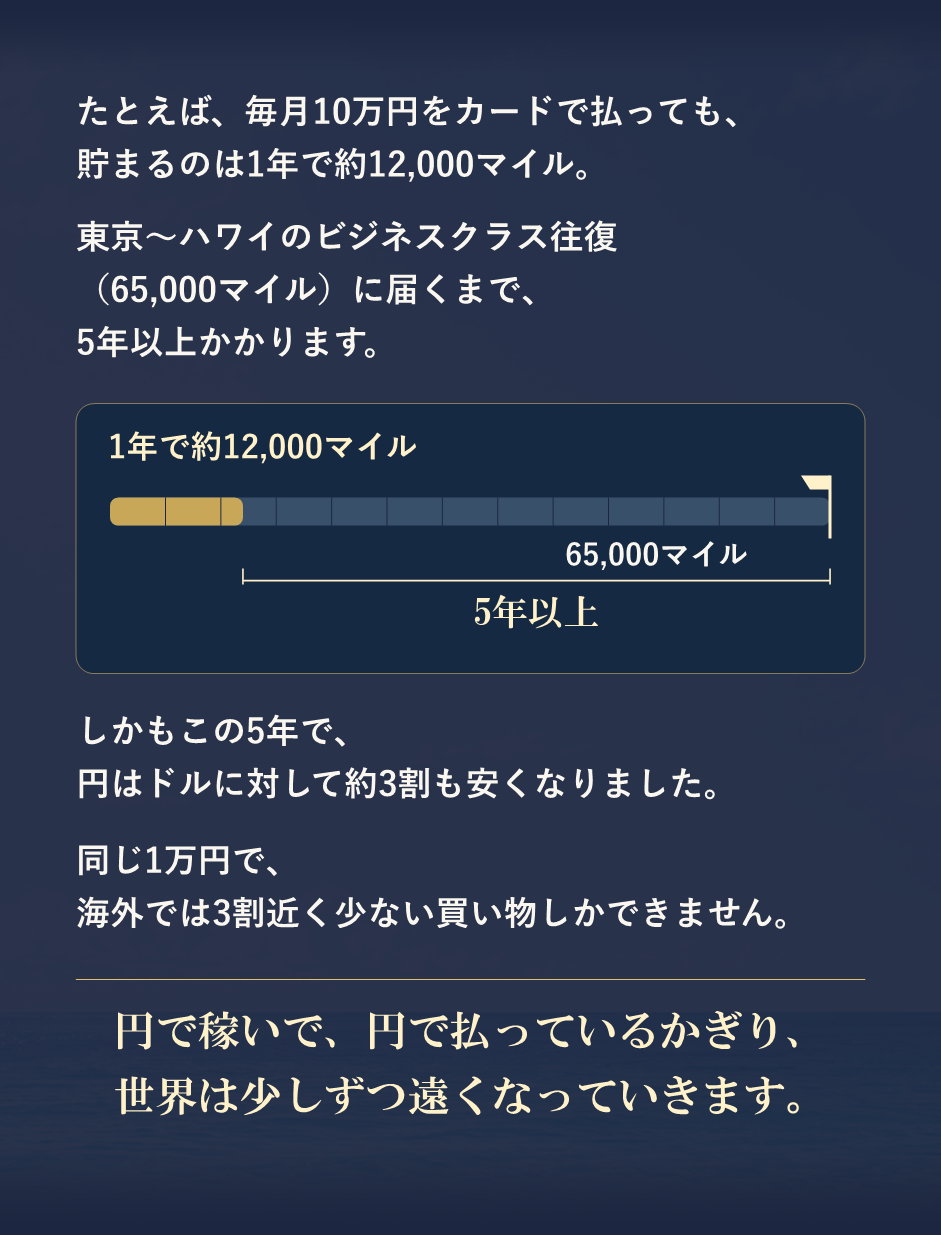
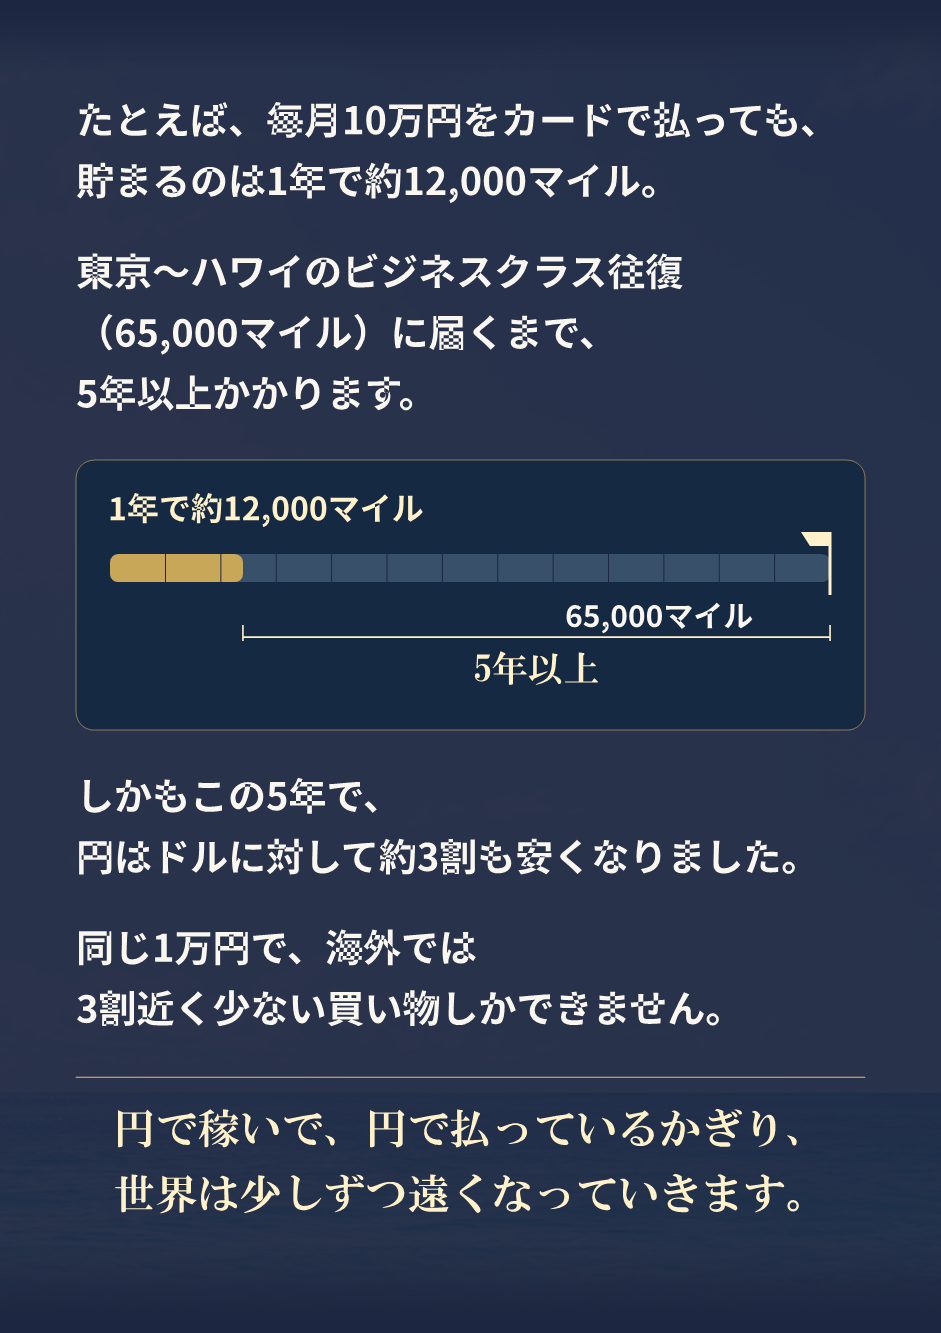
ebay-seminar-lp-2: 本文の書体・文字サイズ・行間・余白・チェックの円を参考ページ（UTAGE）に合わせる
- 本文・項目の書体を Noto Sans JP に（地の文は太字700、箇条書き・答え・項目の中身は中太500、小見出しは極太900）
- 本文 16px相当（画像上38px）・行間1.6、小見出し 17〜18px相当、注記 12.5px相当
- チェックの円を文字の約1.2倍に、改行位置を新しい文字サイズで組み直し
- 金色の見出し・帯の強調文（明朝）と色・画像・配置はそのまま

diff --git a/ebay-seminar-lp-2/index.html b/ebay-seminar-lp-2/index.html
@@ -6,7 +6,7 @@
 .v3 .cta-card{background:radial-gradient(ellipse at 4% 0%,#dceff8b0,transparent 45%),radial-gradient(ellipse at 95% 100%,#b8deec70,transparent 45%),#fbf6ee;border:1px solid #169aa66b;border-radius:18px 24px 20px 28px;box-shadow:0 0 16px 5px #169aa610}.v3 .cta h2{font-family:"Klee One","UD デジタル 教科書体 NK","Yu Mincho",serif;font-weight:600;color:#1b2f5b}.legal-note{padding:10px 24px 6px}.footer{padding:12px 22px 28px;text-align:center;font-size:12px;line-height:2.2;overflow-wrap:break-word}.footer a{color:inherit;text-underline-offset:4px}
 .floating-cta{position:fixed;left:50%;bottom:max(14px,env(safe-area-inset-bottom));transform:translateX(-50%);z-index:20;width:min(calc(100vw - 64px),680px);display:block}.floating-cta[hidden]{display:none}
 @media(prefers-reduced-motion:reduce){html{scroll-behavior:auto}}
-</style></head><body class="v2"><main class="lp"><div class="hero"><img src="images/01-first-view-C5-03.png" alt="稼ぎながら、無料で世界を飛び回る！" width="941" height="1769" fetchpriority="high"></div><section class="cta" id="form1" aria-labelledby="heading1"><div class="cta-card"><h2 id="heading1" data-copy="CTA1-01">メールアドレスとLINE登録だけでOK！</h2><p class="note intro" data-copy="CTA1-02">※参加URLは、公式LINEでお届けします。</p><form action="#cta-link" method="get"><input data-copy="CTA1-03" type="email" name="email" required autocomplete="email" placeholder="メールアドレスを入力" aria-label="メールアドレスを入力"><button type="submit"><img src="images/cta-button_案2.png" alt="無料でセミナーに参加する" width="800" height="142" data-copy="CTA1-04"></button></form><p class="note" data-copy="CTA1-05">※ボタンを押すと、公式LINEの友だち追加の画面が開きます（パソコンの方はQRコードが表示されます）</p><p class="note free" data-copy="CTA1-06">※参加は無料です</p></div></section><img src="images/02-problem.png" alt="こんなこと、感じていませんか？" width="941" height="1417" class="section-image" decoding="async"><img src="images/03-numbers.png" alt="たとえば、毎月10万円をカードで払っても、貯まるのは1年で約12,000マイル。" width="941" height="1235" class="section-image" decoding="async"><img src="images/04-bridge.png" alt="円で買う側から、ドルで稼ぐ側へ。" width="941" height="1353" class="section-image" decoding="async"><img src="images/05-five-values.png" alt="たった1回の取引で生まれる、3つの価値" width="941" height="1107" class="section-image" decoding="async"><img src="images/06-walls-1.png" alt="物販は大変そう？そう思う方へ" width="941" height="1316" class="section-image" decoding="async"><img src="images/07-walls-2.png" alt="④ 出品が面倒" width="941" height="1009" class="section-image" decoding="async"><section class="cta" id="form2" aria-labelledby="heading2"><div class="cta-card"><h2 id="heading2" data-copy="CTA2-01">メールアドレスとLINE登録だけでOK！</h2><p class="note intro" data-copy="CTA2-02">※参加URLは、公式LINEでお届けします。</p><form action="#cta-link" method="get"><input data-copy="CTA2-03" type="email" name="email" required autocomplete="email" placeholder="メールアドレスを入力" aria-label="メールアドレスを入力"><button type="submit"><img src="images/cta-button_案2.png" alt="無料でセミナーに参加する" width="800" height="142" data-copy="CTA2-04"></button></form><p class="note" data-copy="CTA2-05">※ボタンを押すと、公式LINEの友だち追加の画面が開きます（パソコンの方はQRコードが表示されます）</p><p class="note free" data-copy="CTA2-06">※参加は無料です</p></div></section><img src="images/08-learn.png" alt="このセミナーで分かること" width="941" height="1614" class="section-image" decoding="async"><img src="images/09-for-whom.png" alt="こんな方のためのセミナーです" width="941" height="1377" class="section-image" decoding="async"><img src="images/10-instructor-1.png" alt="講師紹介" width="941" height="1527" class="section-image" decoding="async"><img src="images/11-instructor-2.png" alt="独自のAIシステムと実践型のサポート体制をつくり、未経験者でも段階的に成果を目指せる仕組みづくりに力を注いでいる。MBA（経営学修士）の知識を活かし、感覚だけに頼らず、データ分析・戦略・仕組み化の観点から指導している。" width="941" height="1199" class="section-image" decoding="async"><img src="images/12-instructor-masuda.png" alt="増田 和彦" width="941" height="1394" class="section-image" decoding="async"><img src="images/13-overview.png" alt="開催概要" width="941" height="1534" class="section-image" decoding="async"><img src="images/14-bonus.png" alt="参加特典" width="941" height="1458" class="section-image" decoding="async"><img src="images/15-steps.png" alt="参加までの流れ" width="941" height="1097" class="section-image" decoding="async"><section class="cta" id="form3" aria-labelledby="heading3"><div class="cta-card"><h2 id="heading3" data-copy="CTA3-01">メールアドレスとLINE登録だけでOK！</h2><p class="note intro" data-copy="CTA3-02">※参加URLは、公式LINEでお届けします。</p><form action="#cta-link" method="get"><input data-copy="CTA3-03" type="email" name="email" required autocomplete="email" placeholder="メールアドレスを入力" aria-label="メールアドレスを入力"><button type="submit"><img src="images/cta-button_案2.png" alt="無料でセミナーに参加する" width="800" height="142" data-copy="CTA3-04"></button></form><p class="note" data-copy="CTA3-05">※ボタンを押すと、公式LINEの友だち追加の画面が開きます（パソコンの方はQRコードが表示されます）</p><p class="note free" data-copy="CTA3-06">※参加は無料です</p></div></section><img src="images/16-faq-1.png" alt="よくある質問" width="941" height="1546" class="section-image" decoding="async"><img src="images/17-faq-2.png" alt="Q. セミナーで何かを買わされませんか？" width="941" height="1303" class="section-image" decoding="async"><img src="images/18-final-1.png" alt="最後に" width="941" height="1653" class="section-image" decoding="async"><img src="images/19-final-2.png" alt="まずは10月27日、話を聞くところから始めてみてください。" width="941" height="979" class="section-image" decoding="async"><section class="cta" id="form4" aria-labelledby="heading4"><div class="cta-card"><h2 id="heading4" data-copy="CTA4-01">メールアドレスとLINE登録だけでOK！</h2><p class="note intro" data-copy="CTA4-02">※参加URLは、公式LINEでお届けします。</p><form action="#cta-link" method="get"><input data-copy="CTA4-03" type="email" name="email" required autocomplete="email" placeholder="メールアドレスを入力" aria-label="メールアドレスを入力"><button type="submit"><img src="images/cta-button_案2.png" alt="無料でセミナーに参加する" width="800" height="142" data-copy="CTA4-04"></button></form><p class="note" data-copy="CTA4-05">※ボタンを押すと、公式LINEの友だち追加の画面が開きます（パソコンの方はQRコードが表示されます）</p><p class="note free" data-copy="CTA4-06">※参加は無料です</p></div></section><p class="note legal-note" data-copy="NOTE-01">※ご紹介している実績は講師・受講生個人のものであり、成果を保証するものではありません。</p><footer class="footer" data-copy="FOOTER-01"><a href="#">特定商取引法に基づく表記</a>　｜　<a href="#">プライバシーポリシー</a></footer></main><a class="floating-cta" href="#form1" aria-label="無料でセミナーに参加する" hidden><img src="images/cta-button_案2.png" alt="" width="800" height="142" ></a><script>
+</style></head><body class="v2"><main class="lp"><div class="hero"><img src="images/01-first-view-C5-03.png" alt="稼ぎながら、無料で世界を飛び回る！" width="941" height="1769" fetchpriority="high"></div><section class="cta" id="form1" aria-labelledby="heading1"><div class="cta-card"><h2 id="heading1" data-copy="CTA1-01">メールアドレスとLINE登録だけでOK！</h2><p class="note intro" data-copy="CTA1-02">※参加URLは、公式LINEでお届けします。</p><form action="#cta-link" method="get"><input data-copy="CTA1-03" type="email" name="email" required autocomplete="email" placeholder="メールアドレスを入力" aria-label="メールアドレスを入力"><button type="submit"><img src="images/cta-button_案2.png" alt="無料でセミナーに参加する" width="800" height="142" data-copy="CTA1-04"></button></form><p class="note" data-copy="CTA1-05">※ボタンを押すと、公式LINEの友だち追加の画面が開きます（パソコンの方はQRコードが表示されます）</p><p class="note free" data-copy="CTA1-06">※参加は無料です</p></div></section><img src="images/02-problem.png" alt="こんなこと、感じていませんか？" width="941" height="1601" class="section-image" decoding="async"><img src="images/03-numbers.png" alt="たとえば、毎月10万円をカードで払っても、貯まるのは1年で約12,000マイル。" width="941" height="1333" class="section-image" decoding="async"><img src="images/04-bridge.png" alt="円で買う側から、ドルで稼ぐ側へ。" width="941" height="1649" class="section-image" decoding="async"><img src="images/05-five-values.png" alt="たった1回の取引で生まれる、3つの価値" width="941" height="1237" class="section-image" decoding="async"><img src="images/06-walls-1.png" alt="物販は大変そう？そう思う方へ" width="941" height="1582" class="section-image" decoding="async"><img src="images/07-walls-2.png" alt="④ 出品が面倒" width="941" height="1098" class="section-image" decoding="async"><section class="cta" id="form2" aria-labelledby="heading2"><div class="cta-card"><h2 id="heading2" data-copy="CTA2-01">メールアドレスとLINE登録だけでOK！</h2><p class="note intro" data-copy="CTA2-02">※参加URLは、公式LINEでお届けします。</p><form action="#cta-link" method="get"><input data-copy="CTA2-03" type="email" name="email" required autocomplete="email" placeholder="メールアドレスを入力" aria-label="メールアドレスを入力"><button type="submit"><img src="images/cta-button_案2.png" alt="無料でセミナーに参加する" width="800" height="142" data-copy="CTA2-04"></button></form><p class="note" data-copy="CTA2-05">※ボタンを押すと、公式LINEの友だち追加の画面が開きます（パソコンの方はQRコードが表示されます）</p><p class="note free" data-copy="CTA2-06">※参加は無料です</p></div></section><img src="images/08-learn.png" alt="このセミナーで分かること" width="941" height="1913" class="section-image" decoding="async"><img src="images/09-for-whom.png" alt="こんな方のためのセミナーです" width="941" height="1573" class="section-image" decoding="async"><img src="images/10-instructor-1.png" alt="講師紹介" width="941" height="1892" class="section-image" decoding="async"><img src="images/11-instructor-2.png" alt="独自のAIシステムと実践型のサポート体制をつくり、未経験者でも段階的に成果を目指せる仕組みづくりに力を注いでいる。MBA（経営学修士）の知識を活かし、感覚だけに頼らず、データ分析・戦略・仕組み化の観点から指導している。" width="941" height="1485" class="section-image" decoding="async"><img src="images/12-instructor-masuda.png" alt="増田 和彦" width="941" height="1617" class="section-image" decoding="async"><img src="images/13-overview.png" alt="開催概要" width="941" height="1800" class="section-image" decoding="async"><img src="images/14-bonus.png" alt="参加特典" width="941" height="1458" class="section-image" decoding="async"><img src="images/15-steps.png" alt="参加までの流れ" width="941" height="1148" class="section-image" decoding="async"><section class="cta" id="form3" aria-labelledby="heading3"><div class="cta-card"><h2 id="heading3" data-copy="CTA3-01">メールアドレスとLINE登録だけでOK！</h2><p class="note intro" data-copy="CTA3-02">※参加URLは、公式LINEでお届けします。</p><form action="#cta-link" method="get"><input data-copy="CTA3-03" type="email" name="email" required autocomplete="email" placeholder="メールアドレスを入力" aria-label="メールアドレスを入力"><button type="submit"><img src="images/cta-button_案2.png" alt="無料でセミナーに参加する" width="800" height="142" data-copy="CTA3-04"></button></form><p class="note" data-copy="CTA3-05">※ボタンを押すと、公式LINEの友だち追加の画面が開きます（パソコンの方はQRコードが表示されます）</p><p class="note free" data-copy="CTA3-06">※参加は無料です</p></div></section><img src="images/16-faq-1.png" alt="よくある質問" width="941" height="1900" class="section-image" decoding="async"><img src="images/17-faq-2.png" alt="Q. セミナーで何かを買わされませんか？" width="941" height="1490" class="section-image" decoding="async"><img src="images/18-final-1.png" alt="最後に" width="941" height="1768" class="section-image" decoding="async"><img src="images/19-final-2.png" alt="まずは10月27日、話を聞くところから始めてみてください。" width="941" height="1252" class="section-image" decoding="async"><section class="cta" id="form4" aria-labelledby="heading4"><div class="cta-card"><h2 id="heading4" data-copy="CTA4-01">メールアドレスとLINE登録だけでOK！</h2><p class="note intro" data-copy="CTA4-02">※参加URLは、公式LINEでお届けします。</p><form action="#cta-link" method="get"><input data-copy="CTA4-03" type="email" name="email" required autocomplete="email" placeholder="メールアドレスを入力" aria-label="メールアドレスを入力"><button type="submit"><img src="images/cta-button_案2.png" alt="無料でセミナーに参加する" width="800" height="142" data-copy="CTA4-04"></button></form><p class="note" data-copy="CTA4-05">※ボタンを押すと、公式LINEの友だち追加の画面が開きます（パソコンの方はQRコードが表示されます）</p><p class="note free" data-copy="CTA4-06">※参加は無料です</p></div></section><p class="note legal-note" data-copy="NOTE-01">※ご紹介している実績は講師・受講生個人のものであり、成果を保証するものではありません。</p><footer class="footer" data-copy="FOOTER-01"><a href="#">特定商取引法に基づく表記</a>　｜　<a href="#">プライバシーポリシー</a></footer></main><a class="floating-cta" href="#form1" aria-label="無料でセミナーに参加する" hidden><img src="images/cta-button_案2.png" alt="" width="800" height="142" ></a><script>
 (()=>{
  const sections=[...document.querySelectorAll('.cta')], floating=document.querySelector('.floating-cta');
  document.querySelectorAll('form').forEach(form=>form.addEventListener('submit',event=>event.preventDefault()));
